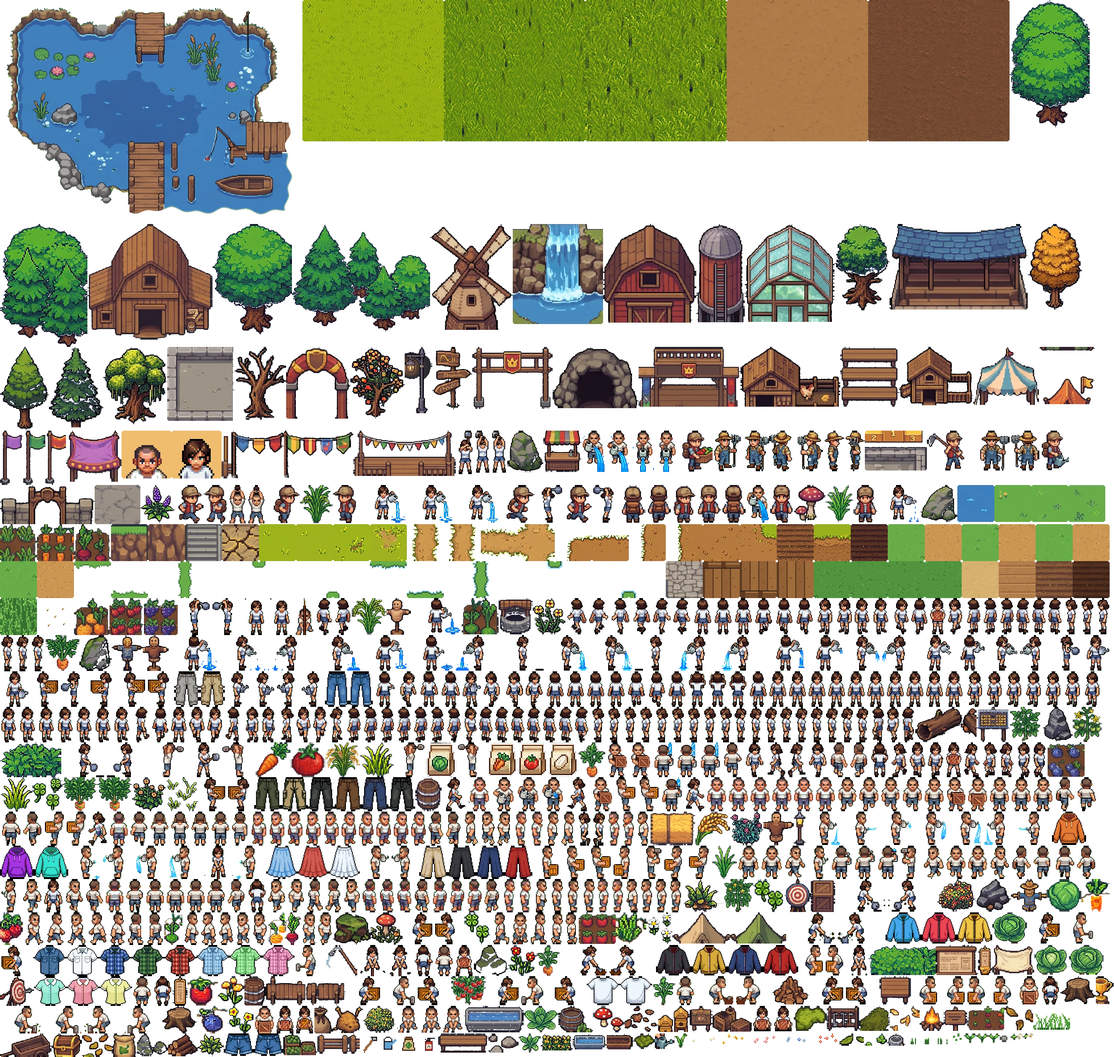
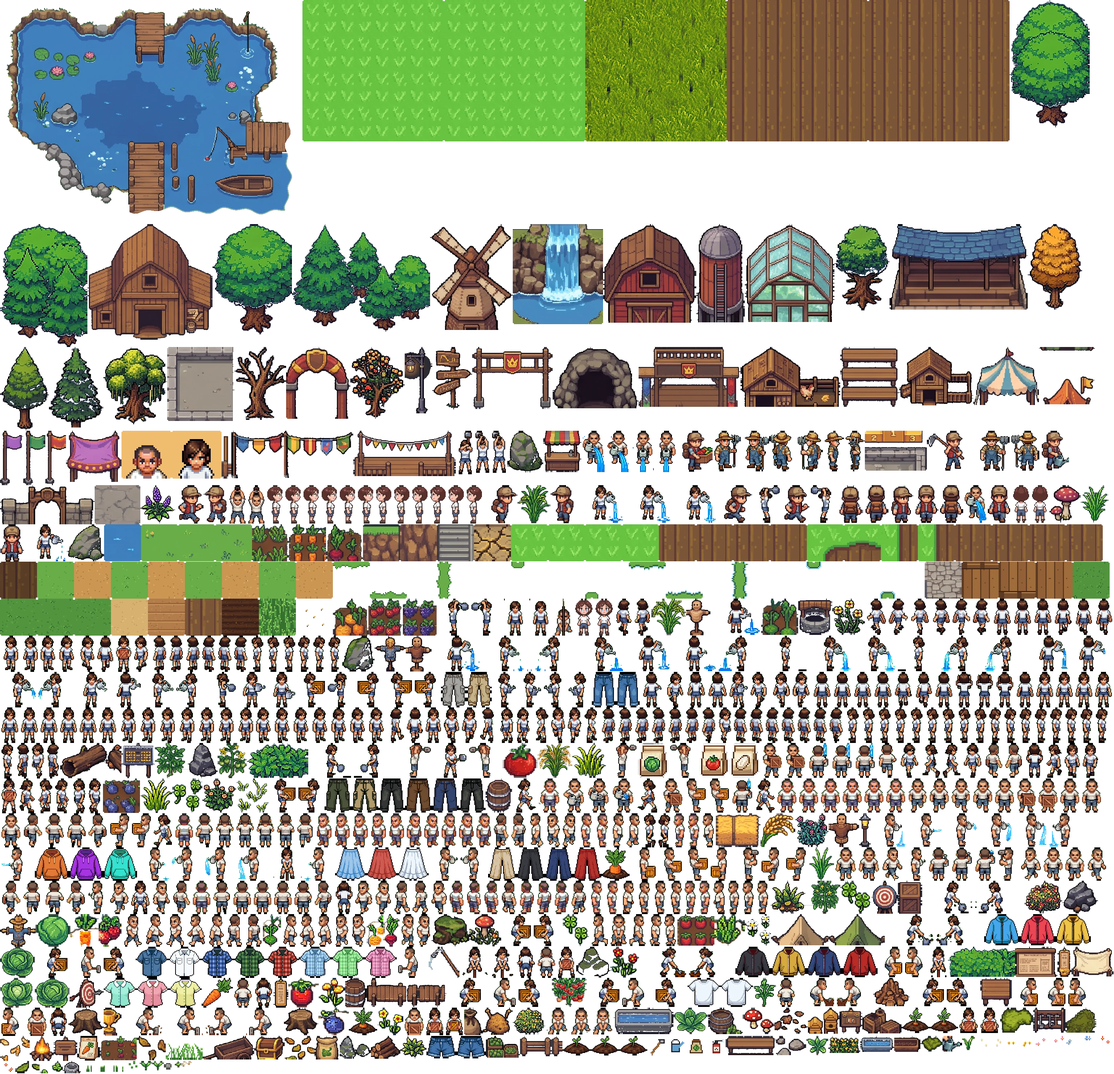
Thử phong cách chibi (giai đoạn 1): nhân vật nữ chibi đứng 4 hướng, bộ ô cỏ/đất ruộng, cà rốt chibi (PixelLab, 12 lượt)
- tools/chibi.py: thay ảnh chibi vào atlas theo tên khi dựng (assets/source/chibi)
- Nhân vật nữ dùng bộ chibi pl6; quần áo cũ tạm tắt cho thân chibi

diff --git a/client/src/main.ts b/client/src/main.ts
@@ -68,7 +68,8 @@ weather.onChange = (k) => {
 };
 player.turnaround = !!atlas.frames['pl2_0'];
 player.walkCycles = !!atlas.frames['pl3_0_8'];
-player.sprite = session.profile.gender === 'f' && atlas.frames['pl5_0_w0'] ? 'pl5' : 'pl4';
+// female: the chibi test character (pl6) when its sprites are in the atlas
+player.sprite = session.profile.gender === 'f' ? (atlas.frames['pl6_0_w0'] ? 'pl6' : atlas.frames['pl5_0_w0'] ? 'pl5' : 'pl4') : 'pl4';
 if (atlas.frames[`${player.sprite}_0_w0`]) {
   const count = (d: number, k: string) => { let n = 0; while (atlas.frames[`${player.sprite}_${d}_${k}${n}`]) n++; return n; };
   player.idleN = [0, 1, 2, 3, 4, 5, 6, 7].map((d) => count(d, 'i'));

diff --git a/client/src/ui.ts b/client/src/ui.ts
@@ -256,6 +256,7 @@ export class UI {
   /** layers for the wardrobe preview: [lower half, upper half] or the bare body */
   private wearLayers(st: FarmState, d = 0): [Atlas, string, ('up' | 'lo')?][] {
     const body = `${this.me.sprite}_${d}_i0`, a = this.atlas;
+    if (a.waist[body] == null) return [[a, body]];   // no clothes for this body yet (chibi test)
     const lo = wearFrame(st.wear?.pants, body), up = wearFrame(st.wear?.shirt, body);
     return !lo && !up ? [[a, body]] : [lo || [a, body, 'lo'], up || [a, body, 'up']];
   }

diff --git a/client/src/login.ts b/client/src/login.ts
@@ -29,7 +29,7 @@ async function call(path: string, body?: unknown, token?: string): Promise<{ ok:
  *  as its sprites are in the atlas (female: pl5_*). */
 const CHARACTERS = [
   { id: 'm', label: 'Nam', prefix: 'pl4' },
-  { id: 'f', label: 'Nữ', prefix: 'pl5' },
+  { id: 'f', label: 'Nữ', prefix: 'pl6' },   // chibi test character (branch style-chibi)
 ];
 
 export async function enterGame(atlas: Atlas): Promise<Session> {

diff --git a/tools/chibi.py b/tools/chibi.py
@@ -1,0 +1,93 @@
+"""Chibi restyle (branch style-chibi): swap PixelLab chibi art into the atlas.
+
+assets/source/chibi/
+  tiles_grass_soil.png/.json  Wang tileset (32px): lower = tilled soil, upper = grass
+  crops/<crop>_<stage>.png     48px crop stages (g1, g2, g3, ripe, item, bag)
+  girl/<south|east|north|west>.png  chibi girl standing, 68px canvas
+
+Called by build_assets.main() after the regular sprites are made; replaces
+them by name so the game code does not change.
+"""
+import json
+import os
+from PIL import Image, ImageEnhance
+
+ROOT = os.path.dirname(os.path.dirname(os.path.abspath(__file__)))
+DIR = os.path.join(ROOT, 'assets/source/chibi')
+
+
+def wang_tiles():
+    """corner pattern (NW, NE, SW, SE as 'U'/'L') -> 32px tile"""
+    sheet = Image.open(os.path.join(DIR, 'tiles_grass_soil.png')).convert('RGBA')
+    meta = json.load(open(os.path.join(DIR, 'tiles_grass_soil.json'), encoding='utf-8'))
+    out = {}
+    for t in meta['tileset_data']['tiles']:
+        c = t['corners']; b = t['bounding_box']
+        key = ''.join('U' if c[k] == 'upper' else 'L' for k in ('NW', 'NE', 'SW', 'SE'))
+        out[key] = sheet.crop((b['x'], b['y'], b['x'] + b['width'], b['y'] + b['height']))
+    return out
+
+
+def apply(images, native, RES, T):
+    if not os.path.isdir(DIR):
+        return
+    TR = T * RES
+    up = lambda im: im.resize((im.width * TR // 32, im.height * TR // 32), Image.NEAREST)
+
+    # ---------------------------------------------------------------- ground
+    if os.path.exists(os.path.join(DIR, 'tiles_grass_soil.png')):
+        w = wang_tiles()
+        grass, soil = up(w['UUUU']), up(w['LLLL'])
+        tiles = {
+            'gt_grass0': grass, 'gt_grass1': grass, 'gt_grass2': grass, 'gt_grass3': grass,
+            # field rim (9-slice of the map; flips give the other sides)
+            'gt_dirt_tl': up(w['UUUL']), 'gt_dirt_t': up(w['UULL']),
+            'gt_dirt_l': up(w['ULUL']), 'gt_dirt_l2': up(w['ULUL']),
+            'gt_dirt': soil, 'gt_dirt2': soil,
+            # paths + ploughed plots: plain soil for this test
+            'gt_path_v': soil, 'gt_path_v2': soil, 'gt_path_h': soil, 'gt_path_x': soil,
+            'gt_furrow': soil, 'gt_soil_t': soil, 'tile_soil': soil,
+            'gt_furrow_wet': ImageEnhance.Brightness(soil).enhance(0.72),
+        }
+        for k, im in tiles.items():
+            images[k] = im; native.add(k)
+
+        def tex(t):          # 4x4 repeat: the pattern size the game expects (128 px)
+            out = Image.new('RGBA', (t.width * 4, t.height * 4))
+            for y in range(4):
+                for x in range(4):
+                    out.paste(t, (x * t.width, y * t.height))
+            return out
+        for k, t in (('tex_grass', grass), ('tex_grassd', grass), ('tex_dirt', soil), ('tex_field', soil)):
+            images[k] = tex(t); native.add(k)
+
+    # ----------------------------------------------------------------- crops
+    cdir = os.path.join(DIR, 'crops')
+    stages = {'seed': 'g1', 'sprout': 'g1', 'g1': 'g1', 'g2': 'g2', 'g3': 'g2', 'g4': 'g3',
+              'ripe': 'ripe', 'item': 'item', 'bag': 'bag'}
+    for crop in ('carrot',):                 # one crop for the first test
+        for game, src in stages.items():
+            p = os.path.join(cdir, f'{crop}_{src}.png')
+            if not os.path.exists(p):
+                continue
+            im = Image.open(p).convert('RGBA')
+            im = im.crop(im.getchannel('A').getbbox())
+            images[f'cp_{crop}_{game}'] = im.resize((im.width * 2, im.height * 2), Image.NEAREST)
+            native.add(f'cp_{crop}_{game}')
+
+    # ------------------------------------------------------------- character
+    gdir = os.path.join(DIR, 'girl')
+    if os.path.isdir(gdir):
+        # game directions 0..7 = S, SE, E, NE, N, NW, W, SW; diagonals use the side view
+        view = ['south', 'east', 'east', 'east', 'north', 'west', 'west', 'west']
+        for d, v in enumerate(view):
+            f = Image.open(os.path.join(gdir, v + '.png')).convert('RGBA')
+            f = f.resize((f.width * 2, f.height * 2), Image.NEAREST)
+            bb = f.getchannel('A').getbbox()
+            cx = (bb[0] + bb[2]) // 2
+            hw = max(cx - bb[0], bb[2] - cx) + 1
+            im = Image.new('RGBA', (hw * 2, bb[3] - bb[1]), (0, 0, 0, 0))
+            im.paste(f.crop(bb), (hw - (cx - bb[0]), 0))
+            # standing only for now: the walk 'cycle' is the same pose
+            for tag in ('i0', 'w0'):
+                images[f'pl6_{d}_{tag}'] = im; native.add(f'pl6_{d}_{tag}')

diff --git a/tools/build_assets.py b/tools/build_assets.py
@@ -1249,6 +1249,9 @@ def main():
             images[k] = polish(images[k], rim=False, sharp=170, color=1.12, contrast=1.1)
         elif k.startswith('gt_'):
             images[k] = polish(images[k], rim=False, sharp=130, color=1.1, contrast=1.06)
+    # chibi restyle test (branch style-chibi): PixelLab chibi art replaces sprites by name
+    import chibi
+    chibi.apply(images, native, RES, T)
     atlas, rects = pack(images)
     os.makedirs(OUT_DIR, exist_ok=True)
     for old in ('atlas.png',):
